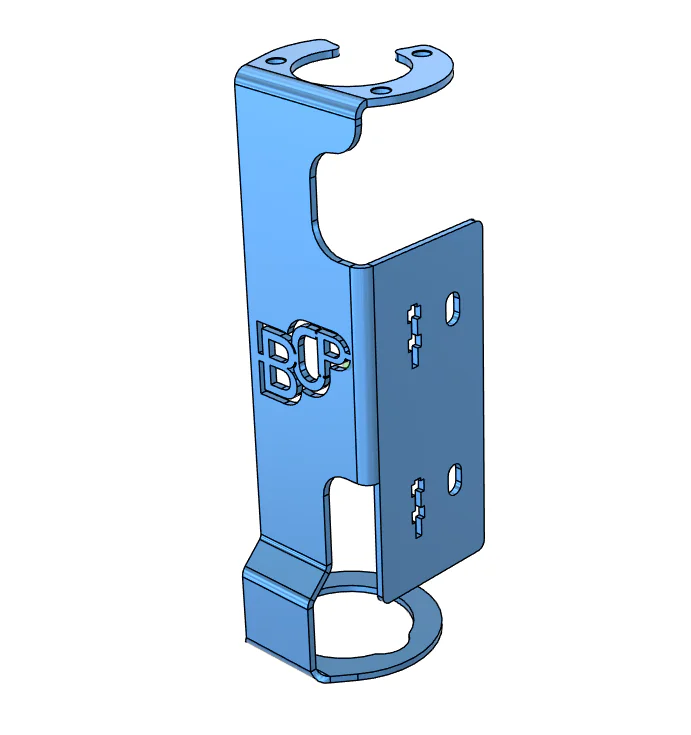
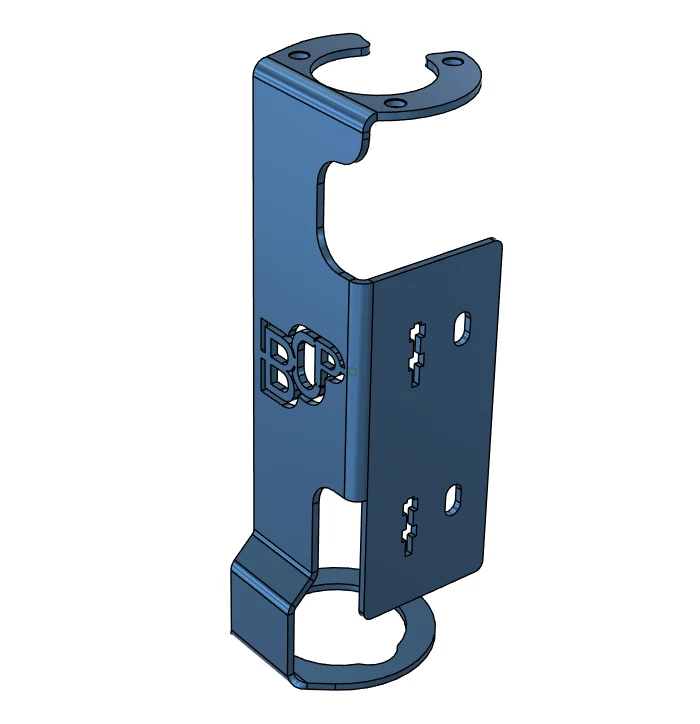
Sharper fuel sending unit render (#9)
* Case study: replace 300px fuel sending unit image with new high-res render

* Case study: add high-res billet top close-up and bracket renders

* Case studies: first image spans full width when image count is odd

---------

Changed region(s): [[0.3039, 0.0304, 0.7294, 0.9724]]

diff --git a/src/Components/CaseStudies.jsx b/src/Components/CaseStudies.jsx
@@ -42,7 +42,7 @@ function CaseStudies({ headingLevel = 'h2', className = '', onImageClick }) {
               <ul className="grid grid-cols-2 gap-4 self-start">
                 {images.map(({ src, alt, fit, position }, ind) =>
                   onImageClick ? (
-                    <li key={src}>
+                    <li key={src} className={images.length % 2 === 1 && ind === 0 ? 'col-span-2' : undefined}>
                       <EnlargeableTile
                         src={src}
                         alt={alt}
@@ -53,7 +53,10 @@ function CaseStudies({ headingLevel = 'h2', className = '', onImageClick }) {
                       />
                     </li>
                   ) : (
-                    <li key={src} className="overflow-hidden rounded-lg ring-1 ring-gray-900/5">
+                    <li
+                      key={src}
+                      className={`overflow-hidden rounded-lg ring-1 ring-gray-900/5${images.length % 2 === 1 && ind === 0 ? ' col-span-2' : ''}`}
+                    >
                       <ImageTile src={src} alt={alt} fit={fit} position={position} />
                     </li>
                   )

diff --git a/src/Data/siteCopy.js b/src/Data/siteCopy.js
@@ -22,10 +22,15 @@ export const caseStudies = {
       // Paired by filename ("bcp...") and the BCP logo visible in both renders.
       images: [
         {
-          src: '/images/portfolio/mechDesignStuff.webp',
+          src: '/images/portfolio/bcpFuelUnitAssembly.webp',
           alt: 'Fuel sending unit assembly with machined billet top and formed sheet metal bracket, Border City Performance',
-          // Square render in a 4:3 tile: bias the crop upward so the billet top stays whole.
-          position: '50% 15%',
+          // 878x718 render on a full-frame grey background: cover, centred.
+        },
+        {
+          src: '/images/portfolio/bcpFuelUnitTop.webp',
+          alt: 'Close-up of the machined billet top with fuel fittings and electrical connector, Border City Performance',
+          // CAD render on white: contain on a white tile so nothing is cut off.
+          fit: 'contain',
         },
         {
           src: '/images/portfolio/bcpFuelPumpBracket.webp',
